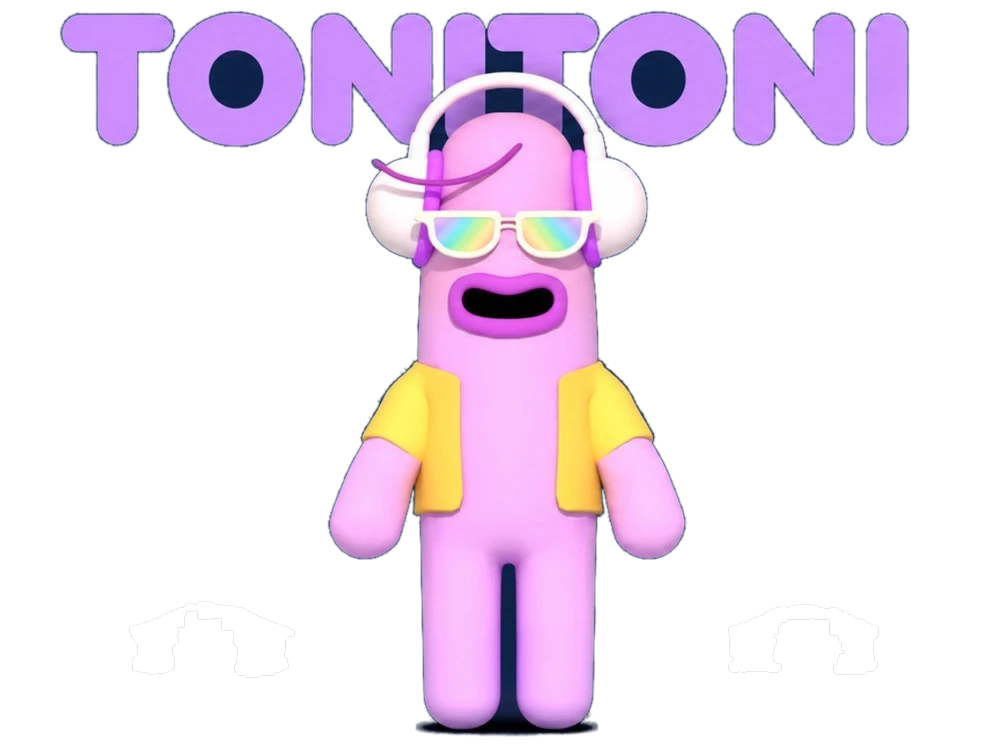
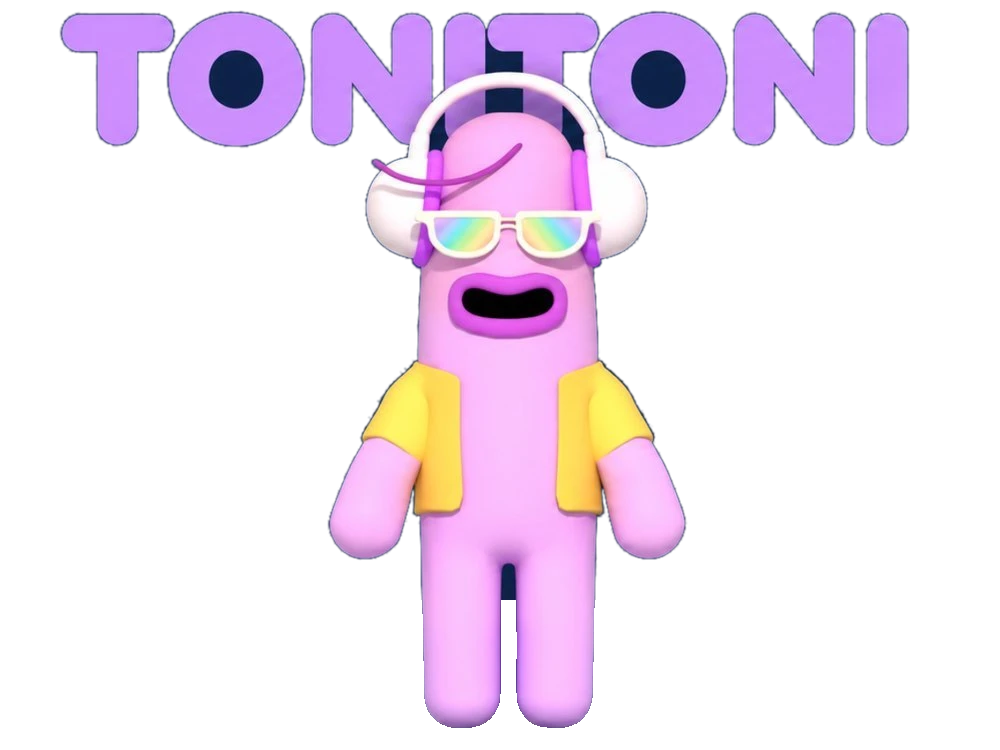
Equal gaps around the game package section; drop foot shadows
Claude-Session: https://claude.ai/code/session_017aKstFPrEwJGuv6yejYsHQ

Changed region(s): [[0.403, 0.7973, 0.62, 0.9813]]

diff --git a/index.html b/index.html
@@ -1140,6 +1140,8 @@ html[data-route="games"] .mg-team::before{display:none}
 #sg-flow-title{font-size:clamp(30px,4.2vw,56px);font-weight:900;line-height:1.15;letter-spacing:-.02em;text-wrap:balance;word-break:keep-all}
 @media (min-width:641px){.sg-flow-band .sg-flow{gap:22vh;margin-top:90px}}
 @media (max-width:640px){.sg-flow-band .sg-flow{gap:16vh;margin-top:60px}}
+.pk{min-height:0;justify-content:flex-start;padding-block:clamp(100px,9vw,150px) 0}
+.cxp{padding-top:clamp(100px,9vw,150px)}
 /* Game detail dialog */
 dialog.gdlg{width:min(980px,calc(100% - 24px));max-height:calc(100% - 24px);overflow:auto}
 .gd{display:grid;grid-template-columns:minmax(0,1.1fr) minmax(0,1fr);gap:0}
